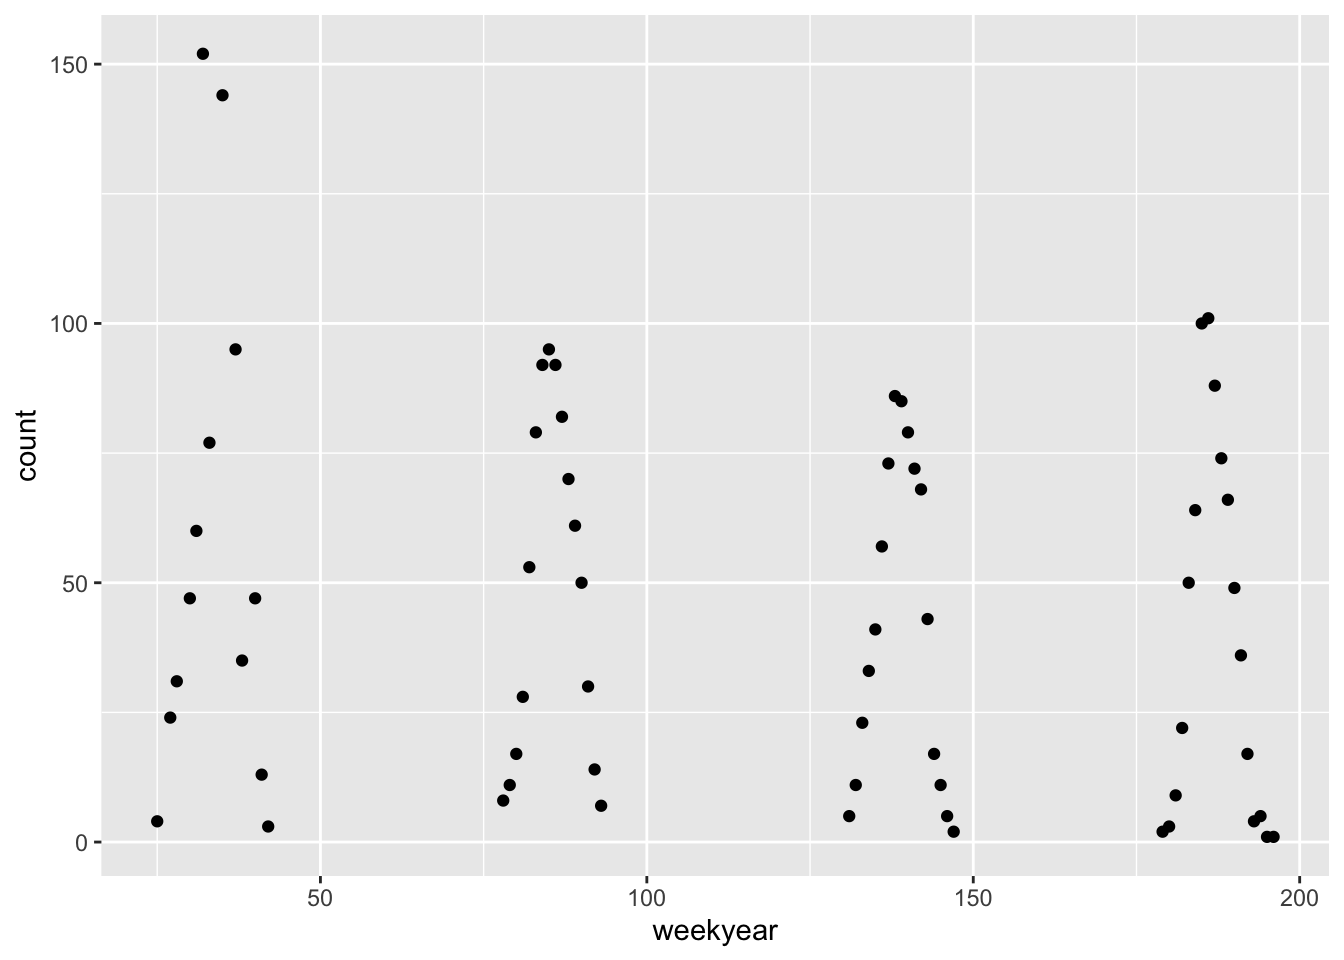
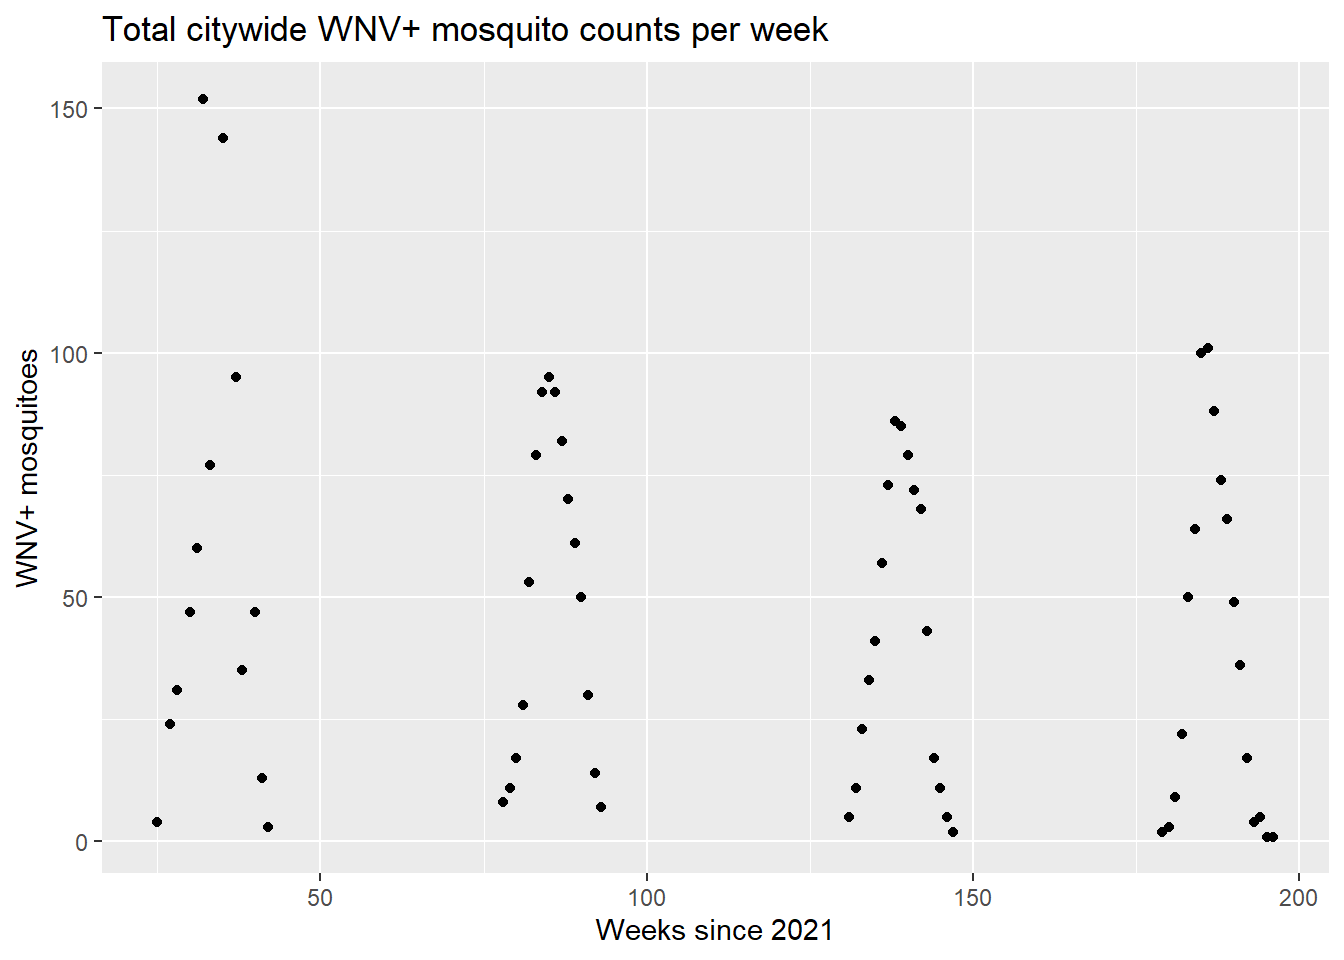
Added labels to plots to match regression analysis section and explanation about using MODZCTAs in mapping when data is on ZIP code level

diff --git a/data_exploration.html b/data_exploration.html
@@ -382,9 +382,11 @@ div.tocify {
 library(tidyverse)
 library(rvest)
 library(httr)
-library(GSODR)
-library(sf)
-library(patchwork)</code></pre>
+library(GSODR)</code></pre>
+<pre><code>## Warning: package &#39;GSODR&#39; was built under R version 4.4.2</code></pre>
+<pre class="r"><code>library(sf)</code></pre>
+<pre><code>## Warning: package &#39;sf&#39; was built under R version 4.4.2</code></pre>
+<pre class="r"><code>library(patchwork)</code></pre>
 <p>First, load in necessary packages.</p>
 </div>
 <div id="data" class="section level2">
@@ -700,12 +702,6 @@ the WNV+ mosquito was detected.</li>
       zip_code == 10000 ~ &quot;Central Park&quot;,
       .default = neighborhood
     )
-  )
-
-inner_join(wnv_mosquito_detection, hvi_zcta, by = join_by(zip_code)) |&gt; 
-  group_by(hvi) |&gt; 
-  summarize(
-    count = n()
   )</code></pre>
 <p><strong>GSODR</strong></p>
 <ul>
@@ -793,11 +789,21 @@ weather_2021_2024 |&gt;
   geom_point(size = 0.5, alpha = 0.5) +
   geom_smooth(se = FALSE, color = &quot;white&quot;, alpha = 0.5) +
   theme(legend.position = &quot;bottom&quot;) + 
-  geom_errorbar(aes(ymin = min, ymax = max), alpha = 0.5)</code></pre>
+  geom_errorbar(aes(ymin = min, ymax = max), alpha = 0.5) +
+  labs(
+    x = &quot;Year&quot;,
+    y = &quot;Temperature\n(degrees Fahrenheit)&quot;
+  )</code></pre>
 <p><img src="data_exploration_files/figure-html/unnamed-chunk-7-1.png" width="672" /></p>
 <p>We found that, despite being in different boroughs, there is not much
 variation in measured temperatures. Since they were all fairly similar,
 we ended up taking the average of the 5 weather stations.</p>
+<p>Worth noting is that over the years, the troughs in the temperature
+graphs appear to get higher, indicating that the minimum temperature may
+be increasing, though the same is not the case for the maximum
+temperature. The minimum temperature is around 10 degrees higher in 2023
+than 2022, save for some outliers, and 2024 also has higher minimum
+temperatures than 2022.</p>
 </div>
 <div id="exploring-trends-in-wnv-positive-mosquito-counts"
 class="section level3">
@@ -816,6 +822,11 @@ for each year from 2021 through 2024, separated by borough.</p>
   ) |&gt; 
   ggplot(aes(x = date, y = count, fill = borough)) +
   geom_col(stat = &quot;identity&quot;) +
+  labs(
+    y = &quot;WNV+ mosquitoes&quot;,
+    x = &quot;Months&quot;,
+    title = &quot;WNV+ mosquitoes in 2021&quot;
+  ) +
   facet_grid(~borough)</code></pre>
 <p><img src="data_exploration_files/figure-html/unnamed-chunk-8-1.png" width="672" /></p>
 <pre class="r"><code>mosquitoes_2022_table |&gt;
@@ -825,6 +836,11 @@ for each year from 2021 through 2024, separated by borough.</p>
   ) |&gt; 
   ggplot(aes(x = date, y = count, fill = borough)) +
   geom_col(stat = &quot;identity&quot;) +
+  labs(
+    y = &quot;WNV+ mosquitoes&quot;,
+    x = &quot;Months&quot;,
+    title = &quot;WNV+ mosquitoes in 2022&quot;
+  ) +
   facet_grid(~borough)</code></pre>
 <p><img src="data_exploration_files/figure-html/unnamed-chunk-8-2.png" width="672" /></p>
 <pre class="r"><code>mosquitoes_2023_table |&gt;
@@ -834,6 +850,11 @@ for each year from 2021 through 2024, separated by borough.</p>
   ) |&gt; 
   ggplot(aes(x = date, y = count, fill = borough)) +
   geom_col(stat = &quot;identity&quot;) +
+  labs(
+    y = &quot;WNV+ mosquitoes&quot;,
+    x = &quot;Months&quot;,
+    title = &quot;WNV+ mosquitoes in 2023&quot;
+  ) +
   facet_grid(~borough)</code></pre>
 <p><img src="data_exploration_files/figure-html/unnamed-chunk-8-3.png" width="672" /></p>
 <pre class="r"><code>mosquitoes_2024_table |&gt;
@@ -843,6 +864,11 @@ for each year from 2021 through 2024, separated by borough.</p>
   ) |&gt; 
   ggplot(aes(x = date, y = count, fill = borough)) +
   geom_col(stat = &quot;identity&quot;) +
+  labs(
+    y = &quot;WNV+ mosquitoes&quot;,
+    x = &quot;Months&quot;,
+    title = &quot;WNV+ mosquitoes in 2024&quot;
+  ) +
   facet_grid(~borough)</code></pre>
 <p><img src="data_exploration_files/figure-html/unnamed-chunk-8-4.png" width="672" /></p>
 <p>The figures show that there are drastic differences in the counts of
@@ -860,7 +886,12 @@ wnv_mosquitoes |&gt;
   summarise(count = n()) |&gt;
   mutate(weekyear = (year - 2021)*52 + week) |&gt; 
 ggplot(aes(x = weekyear, y = count)) +
-geom_point()</code></pre>
+geom_point() +
+labs(
+  x = &quot;Weeks since 2021&quot;,
+  y = &quot;WNV+ mosquitoes&quot;,
+  title = &quot;Total citywide WNV+ mosquito counts per week&quot;
+)</code></pre>
 <p><img src="data_exploration_files/figure-html/unnamed-chunk-9-1.png" width="672" /></p>
 <p>Further, when boroughs are grouped together, we see that the number
 of WNV-positive mosquitoes peaked in 2021, followed by a decline in 2022
